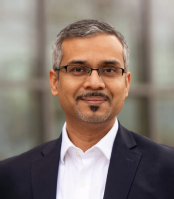
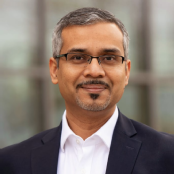
Update About Us to include Nasir Rajpoot to Advisory Board.  Fixed Image ratio so it fits better into existing design.

diff --git a/about.html b/about.html
@@ -125,6 +125,14 @@
                   <strong><a href="https://www.linkedin.com/in/afeng/" target="_blank"> Andrew Feng </a></strong> <br/>
                 </div>
             </div>
+            <div class="flex-item">
+                <div class="card-img">
+                    <img src="img/NasirRajpoot.png" class="full-img"/>
+                </div>
+                <div class="card-text">
+                  <strong><a href="https://warwick.ac.uk/fac/sci/dcs/people/nasir_rajpoot/" target="_blank"> Nasir Rajpoot </a></strong> <br/>
+                </div>
+            </div>
         </div>
     </section>
     <section>
